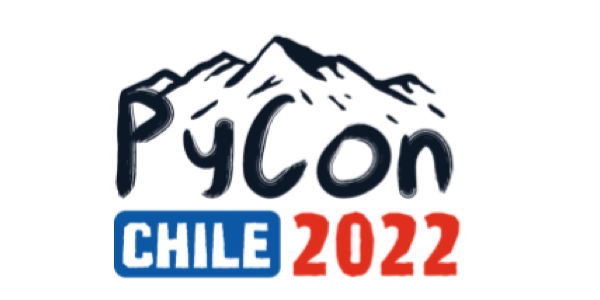
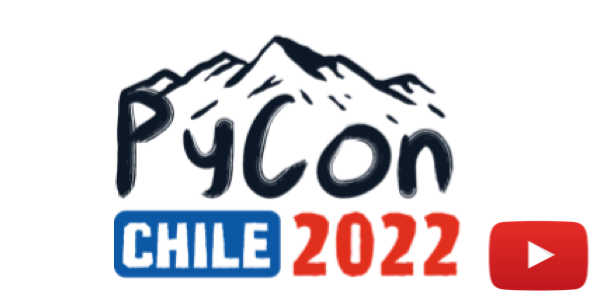
updating images

Changed region(s): [[0.81, 0.72, 0.99, 0.99]]

diff --git a/helpers.py b/helpers.py
@@ -15,7 +15,7 @@ def make_clickable(link):
     # extract clickable text to display for your link
     youtube = "yutú:"
     text = link.replace("https://www.youtube.com/watch?v=", youtube).replace("https://youtu.be/", youtube)
-    return f'<a target="_blank" href="{link}">{text}</a>'
+    return f'<a target="_blank" href="{link}" style="background-size: cover;">{text}</a>'
 
 
 def get_mask_for_keyword(df, keyword, search_cols=["autor", "titulo"]):
@@ -44,14 +44,13 @@ def create_card(row, c):
     link = row["Video"].strip()
     evento = row["Evento"].strip()
     image_link = image_dict[evento]
-    clickable_image = f'<a href="{link}" target="_blank"> <img src="{image_link}" width="150px"> </a>'
+    clickable_image = f'<a href="{link}" target="_blank"> <img src="{image_link}" style="width:100%;"> </a>'
     with c:
         #st.write(clickable_image)
         st.caption(f"{row['Evento'].strip()} - {row['Lugar'].strip()} - {row['Fecha'].strip()} ")
         st.markdown(f"**{row['Autor'].strip()}**")
         st.components.v1.html(clickable_image)
         st.markdown(f"{row['Tipo'].strip()}: {row['Titulo'].strip()}")
-        #st.markdown(f"{row['Video'].strip()}", unsafe_allow_html=True)
         
 
 def add_color_to_cards():
